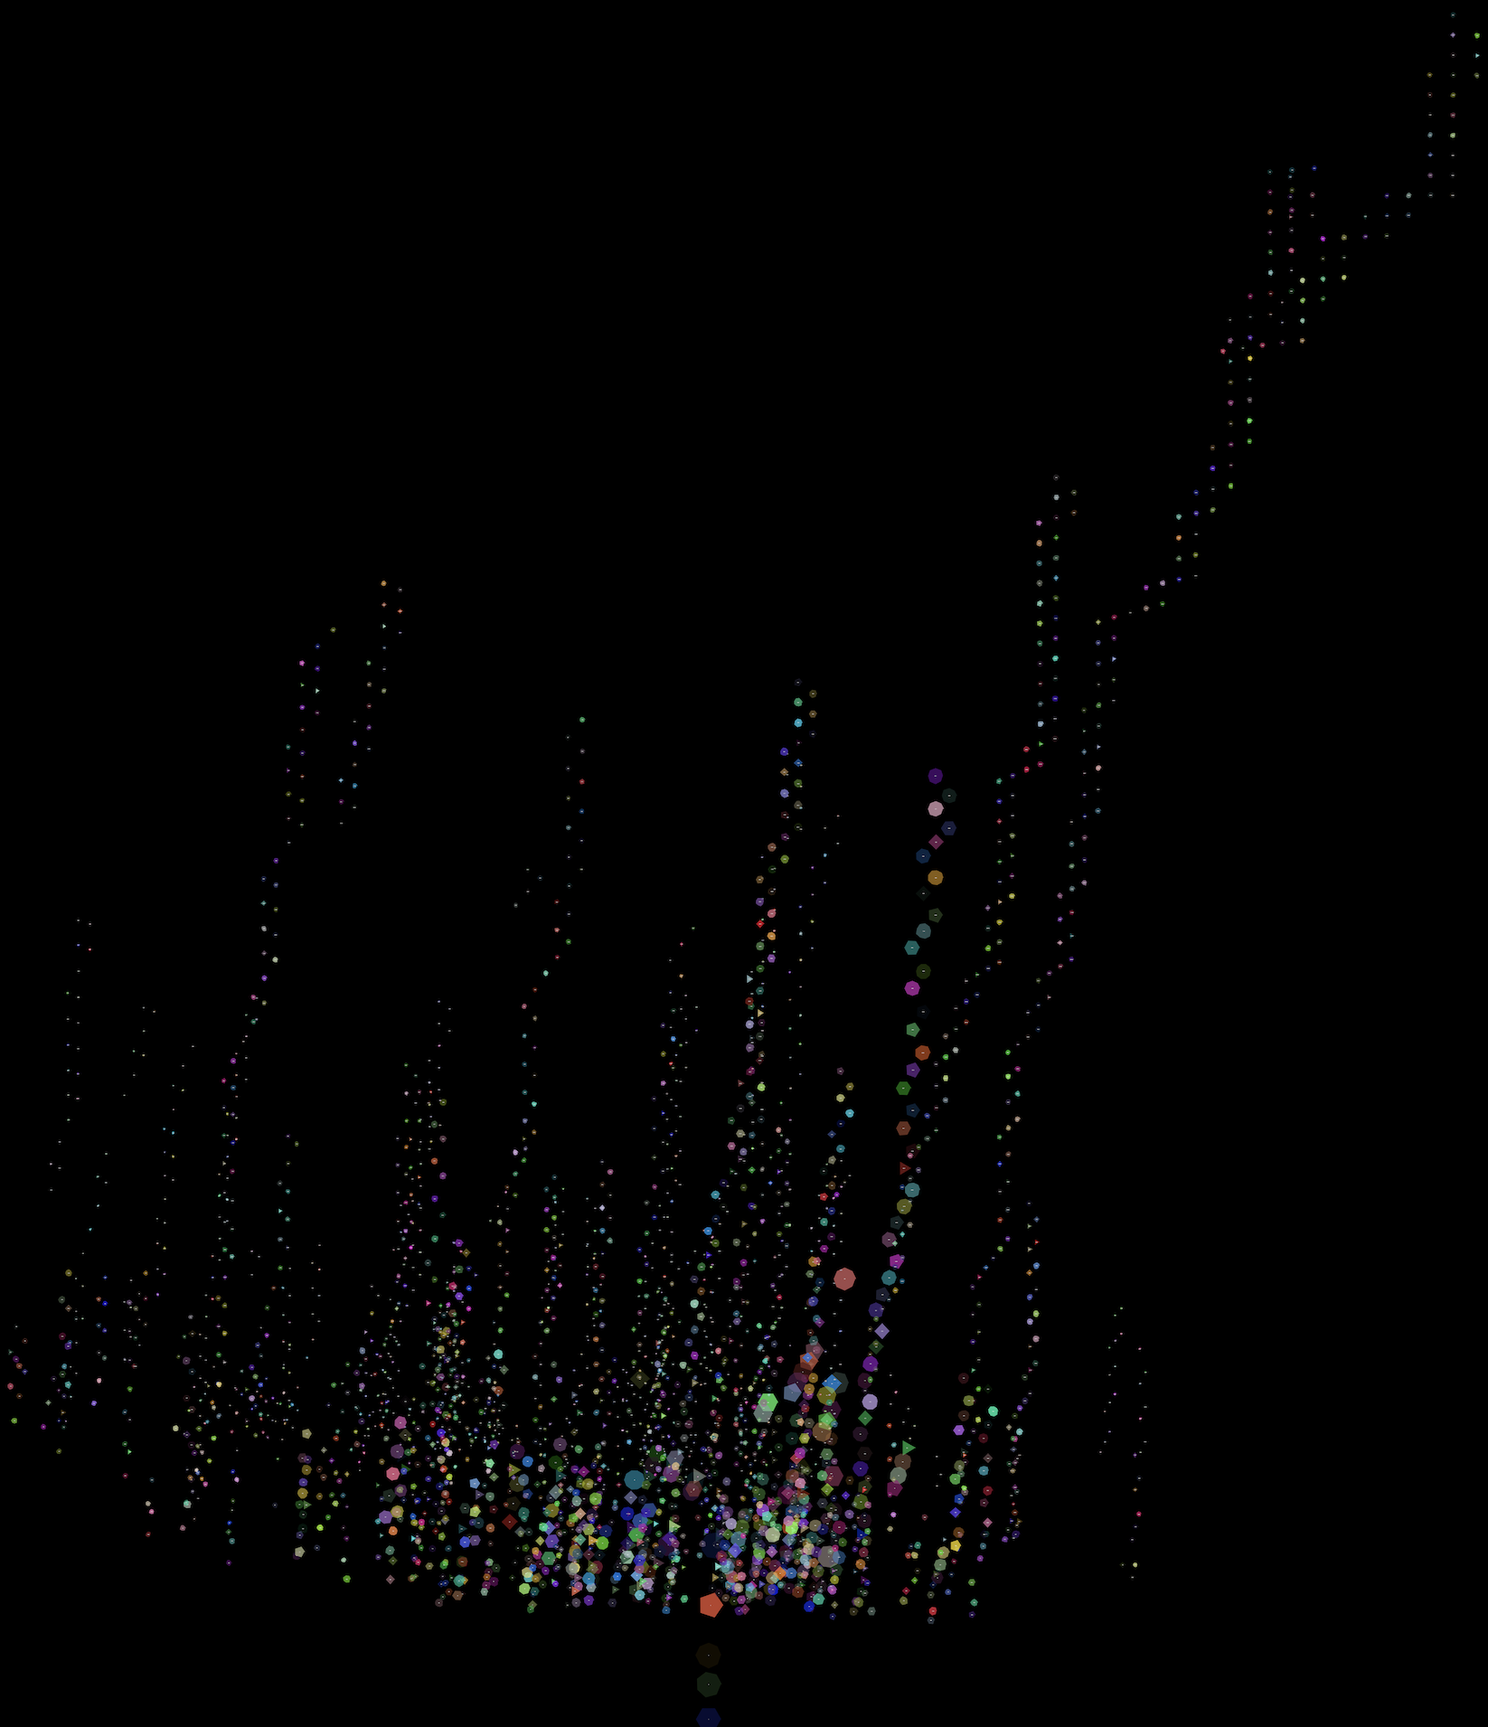
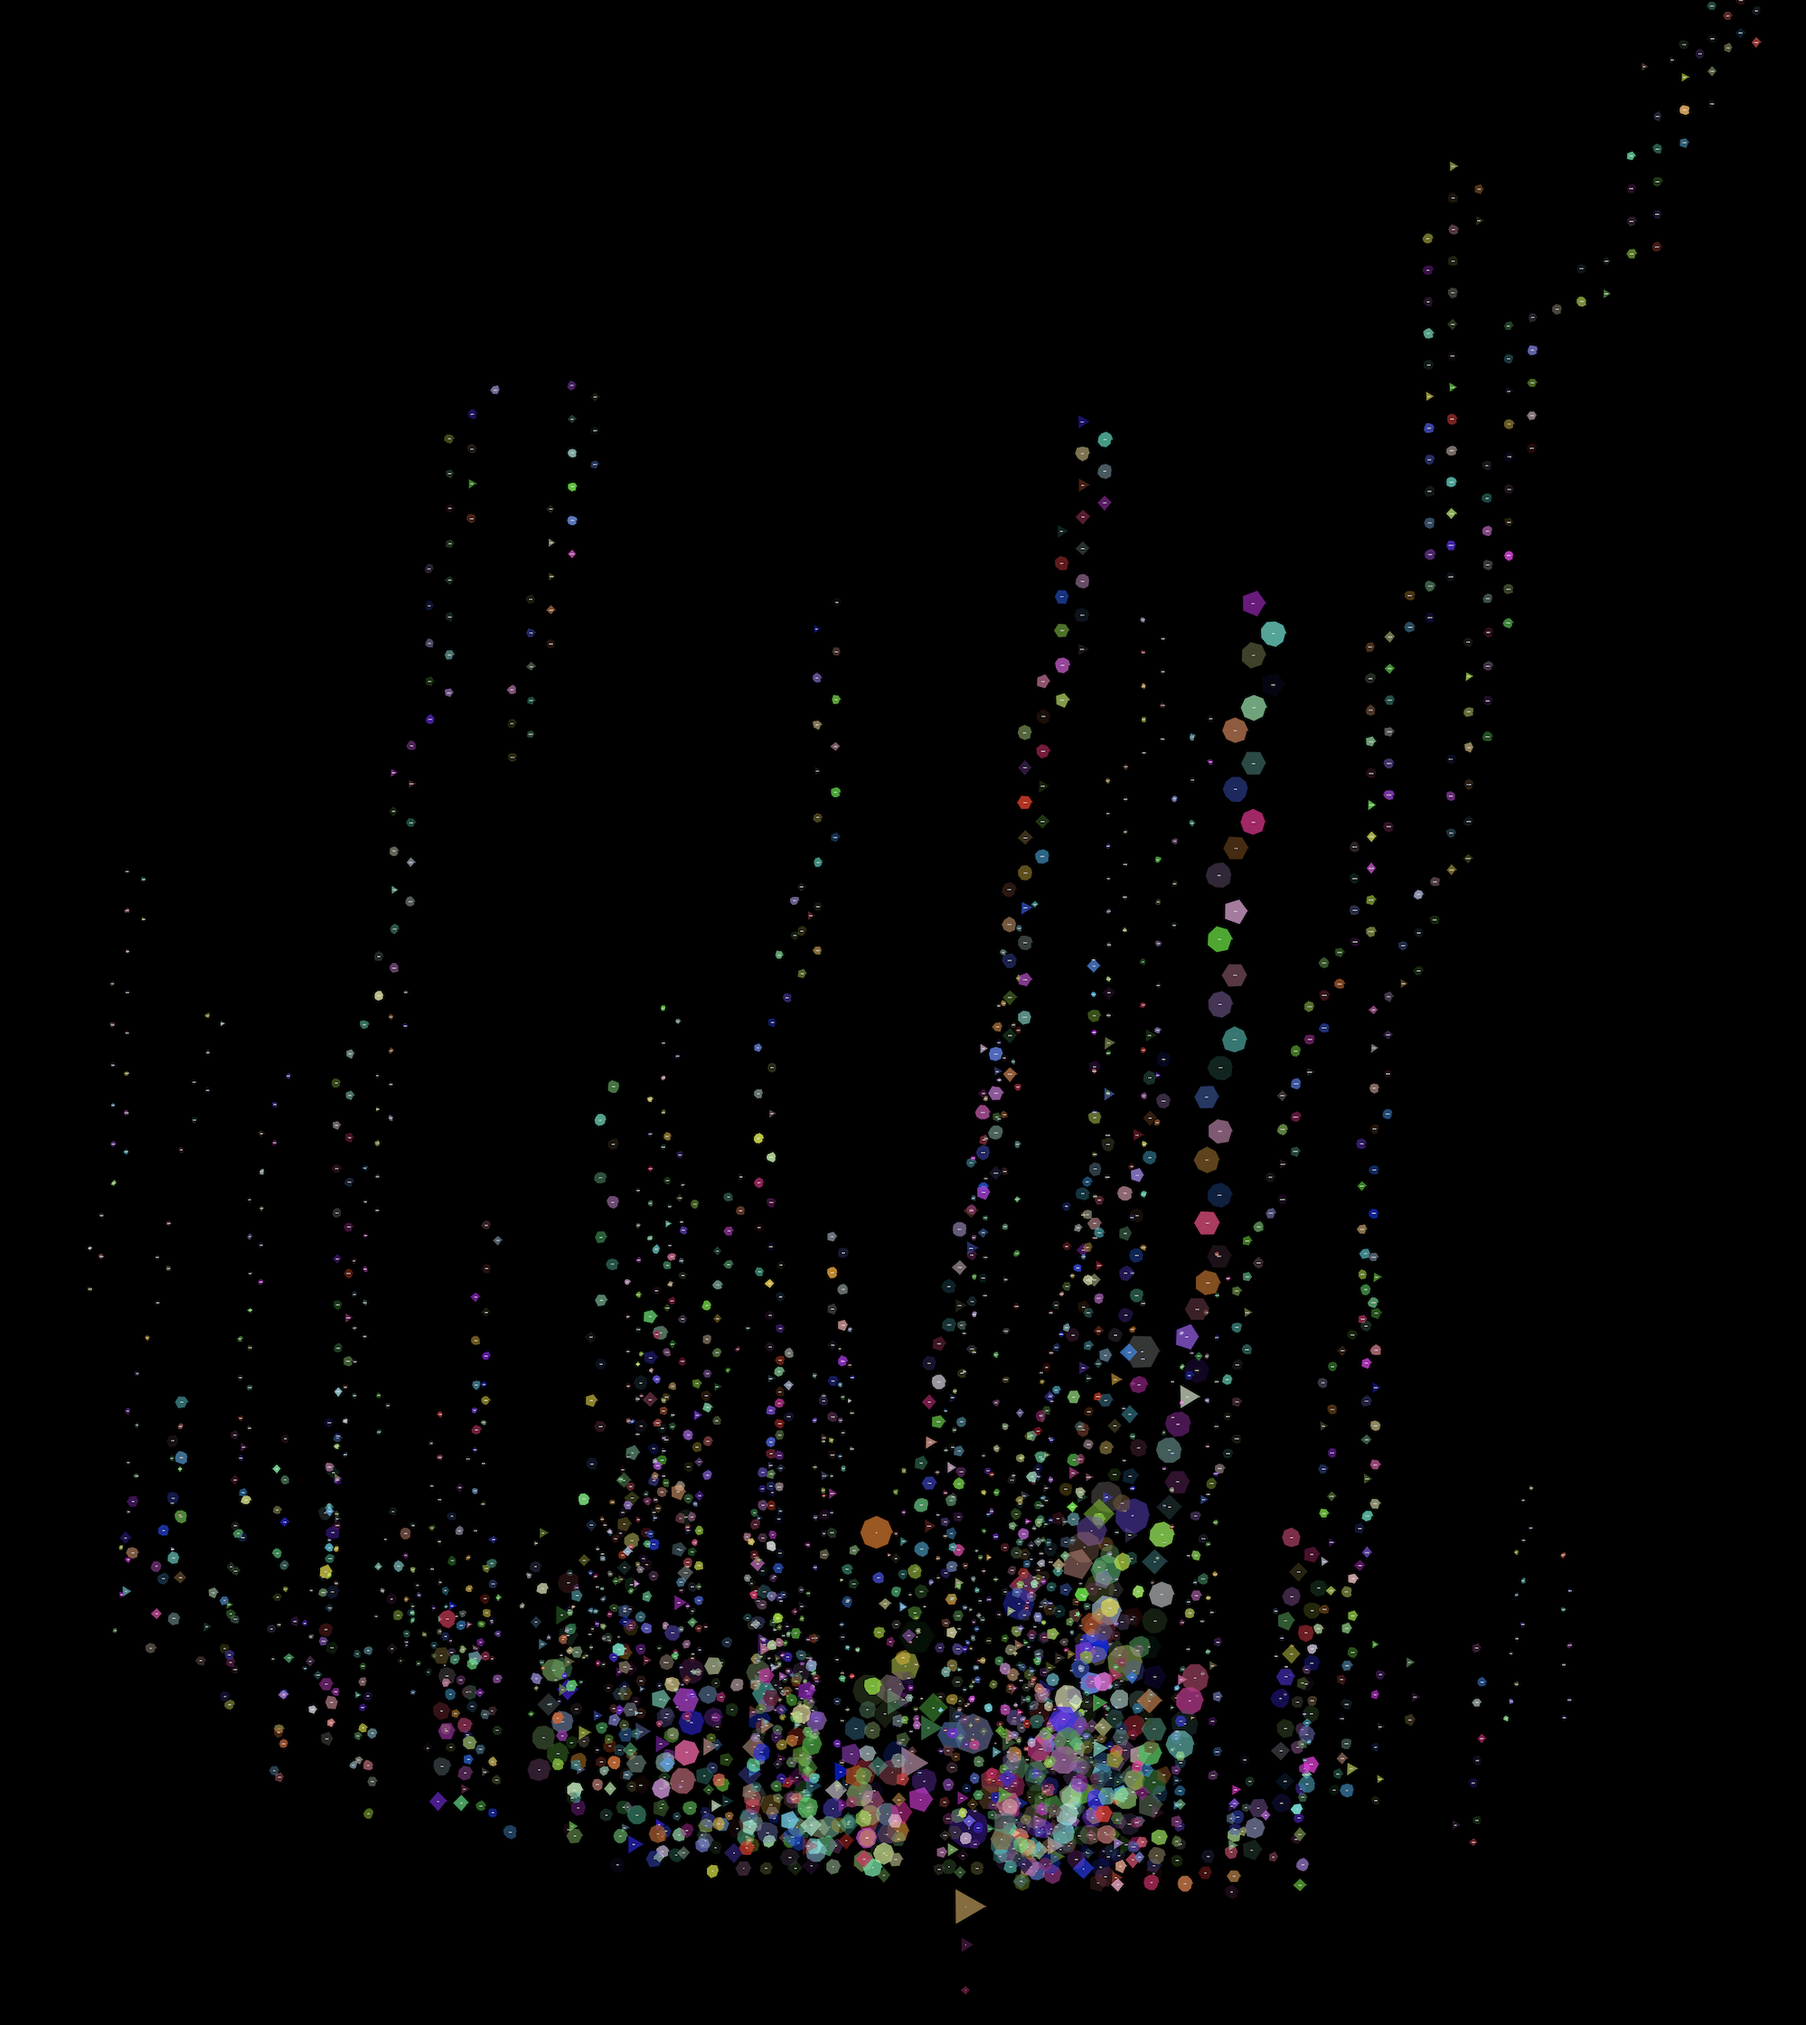
3D node tweaks, and new output image

diff --git a/ThreeXPlusOne/Code/Graph/ThreeDimensionalDirectedGraph.cs b/ThreeXPlusOne/Code/Graph/ThreeDimensionalDirectedGraph.cs
@@ -33,12 +33,12 @@ public class ThreeDimensionalDirectedGraph(IOptions<Settings> settings,
 
         _nodes[1].Position = base1;
         _nodes[1].Position = ApplyPerspectiveTransform(_nodes[1], _settings.DistanceFromViewer);
-        _nodes[1].Radius = _settings.NodeRadius;
+        _nodes[1].Radius = 50;
         _nodes[1].IsPositioned = true;
 
         _nodes[2].Position = base2;
         _nodes[2].Position = ApplyPerspectiveTransform(_nodes[2], _settings.DistanceFromViewer);
-        _nodes[2].Radius = _settings.NodeRadius;
+        _nodes[2].Radius = 100;
         _nodes[2].IsPositioned = true;
 
         _nodes[4].Position = base4;
@@ -86,8 +86,8 @@ public class ThreeDimensionalDirectedGraph(IOptions<Settings> settings,
 
         float maxZ = _nodes.Max(node => node.Value.Z);
         float depthFactor = node.Z / maxZ;
-        float scale = 0.98f - depthFactor * 0.1f;
-        float minScale = (float)0.3;
+        float scale = 0.99f - depthFactor * 0.1f;
+        float minScale = (float)0.2;
         float nodeRadius = baseRadius * Math.Max(scale - 0.02f, minScale);
         float xNodeSpacer = _settings.XNodeSpacer;
         float yNodeSpacer = _settings.YNodeSpacer;
@@ -124,13 +124,13 @@ public class ThreeDimensionalDirectedGraph(IOptions<Settings> settings,
             if (node.IsFirstChild)
             {
                 xOffset = xOffset - (allNodesAtDepth / 2 * xNodeSpacer) - (xNodeSpacer * addedWidth);
-                node.Z -= 25;
+                node.Z -= 35;
                 nodeRadius = node.Parent.Radius * Math.Max(scale, minScale);
             }
             else
             {
                 xOffset = xOffset + (allNodesAtDepth / 2 * xNodeSpacer) + (xNodeSpacer * addedWidth);
-                node.Z += 10;
+                node.Z += 15;
                 nodeRadius = node.Parent.Radius * Math.Max(scale - 0.02f, minScale);
             }
         }
